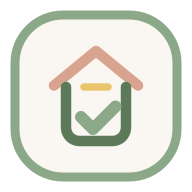
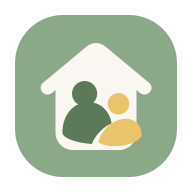
feat: la app estrena icono, una casa clara sobre el salvia de marca
El icono era una casa de trazo fino dentro de una tarjeta crema con borde
salvia. A tamaño de escritorio de un móvil —donde de verdad se ve— el trazo se
perdía y quedaba un cuadrado claro sin silueta reconocible. El nuevo invierte
el contraste: fondo salvia macizo y la casa clara y llena, con dos figuras
abstractas dentro en verde oscuro y en el amarillo de familia.

El diseño no salió de esta sesión, así que el porqué de la forma concreta no
queda escrito en project-status.md; sí queda lo que cambia y lo que se comprobó.

Cambian el SVG del favicon, el generador y los cinco PNG que salen de él. El
`theme_color` del manifest y el `themeColor` de layout.tsx ya eran ese mismo
salvia, así que ahí no había nada que igualar: es la clase de desajuste que
architecture.md avisa que no da error, solo deja de coincidir en silencio.

Y `CACHE` sube a nido-v2 en el service worker. `icon-192.png` e `icon-512.png`
están en `PRECACHE`: cambiar su contenido sin subir la versión deja a un móvil
con la app ya instalada sirviendo el icono viejo hasta que la revalidación en
segundo plano lo pille. Es la misma regla que obliga a subir `SCHEMA_VER` cuando
cambia la forma de los datos del mock.

diff --git a/public/sw.js b/public/sw.js
@@ -4,7 +4,7 @@
 //  - Estáticos (_next/static, iconos): stale-while-revalidate.
 //  - API, /auth y peticiones cross-origin (Supabase): siempre red.
 
-const CACHE = 'nido-v1'
+const CACHE = 'nido-v2'
 const OFFLINE_URL = '/offline'
 const PRECACHE = ['/offline', '/manifest.json', '/icon-192.png', '/icon-512.png']
 

diff --git a/docs/project-status.md b/docs/project-status.md
@@ -123,6 +123,17 @@ perfil de la 014. Detalle en `docs/supabase-validation.md`.
 
 ## Cerrado el 2026-08-24
 
+- **Icono nuevo de la app.** Pasa de una casa de trazo sobre la tarjeta crema a una
+  casa clara maciza sobre el salvia de marca, con dos figuras abstractas dentro (verde
+  oscuro y amarillo de familia). Cambian `src/app/icon.svg`, `scripts/gen-icons.cjs` y
+  los cinco PNG generados. El `theme_color` del manifest y el `themeColor` de
+  `layout.tsx` ya eran ese salvia, así que no hacía falta tocarlos.
+  - `CACHE` sube a `nido-v2` en `public/sw.js`. `icon-192.png` e `icon-512.png` están en
+    `PRECACHE`: al cambiar su contenido sin subir la versión, un móvil con la app ya
+    instalada seguiría sirviendo el icono viejo hasta que la revalidación en segundo
+    plano lo pillase.
+  - El **porqué** del diseño no está escrito aquí: la decisión no salió de esta sesión.
+
 - **El calendario se rediseña: agenda primero, mes como mapa.** En móvil abre en
   `Agenda` —una tira de siete días para navegar y, debajo, lo que pasa el día elegido
   con su hora y de quién es— y detrás los próximos días con algo. `Mes` es la otra
